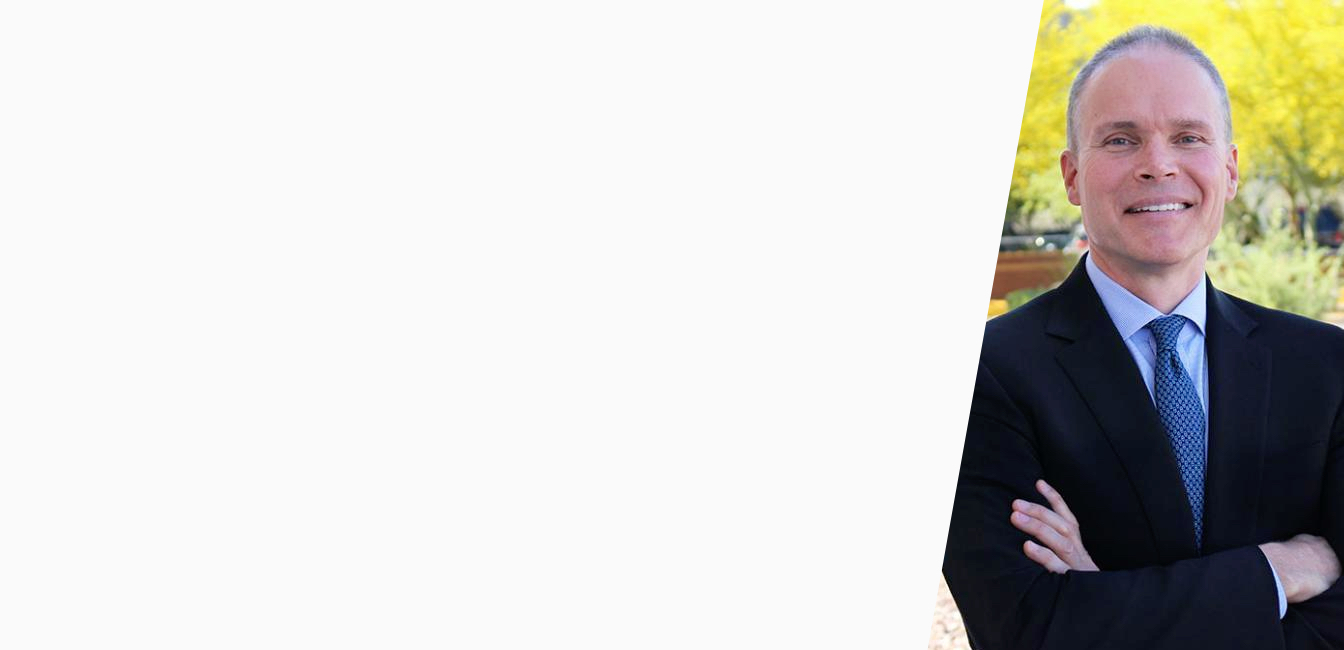
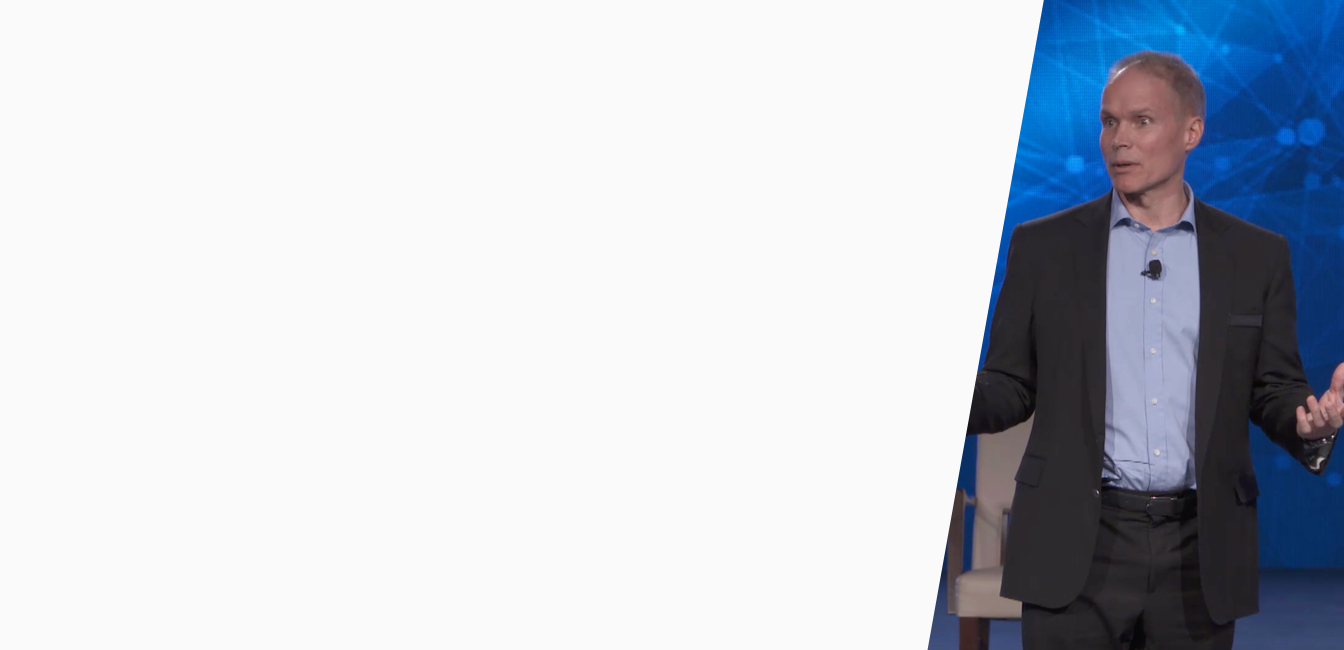
about us done!

Changed region(s): [[0.6875, 0.0, 1.0, 1.0]]

diff --git a/src/views/about/history/history.html b/src/views/about/history/history.html
@@ -1,64 +1,72 @@
 <div>
 
-  <div class="hero">
-    <div class="hero-body has-text-centered">
-      <h3 class="title is-3">About Us</h3>
-    </div>
-  </div>
-
-  <div class="hero is-small">
+  <section class="hero is-medium section-about-about m-y-2">
     <div class="hero-body">
-      <div class="columns is-centered">
-        <div class="column is-7">
-          Execute to Win (ETW) is a consulting company that helps organizations improve alignment to get better results; alignment to intentional leadership, strategy, execution and culture. Only when organizations are aligned can they have the better conversations
-          leading to better actions to yield better results. Most organizations find alignment to be both their biggest challenge and opportunity. What would be different if your organization was 20, 30, 40, 50% more aligned? Our customers find that small
-          improvements in alignment yield large improvements in employee morale, engagement and bottom-line results.
+      <div class="columns">
+        <div class="column is-6 p-l-3">
+          <div class="m-b-2 m-t-3">
+            <h5 class="has-text-grey">EXECUTE TO WIN</h5>
+            <h1 class="title is-1">Improving Alignment to get Better Results</h1>
+          </div>
+          <p class="m-b-2 is-size-5">Execute to Win (ETW) is a consulting company that helps organizations improve alignment to get better results; alignment to intentional leadership, strategy, execution and culture. Only when organizations are aligned can they have the better conversations
+            leading to better actions to yield better results. Most organizations find alignment to be both their biggest challenge and opportunity. What would be different if your organization was 20, 30, 40, 50% more aligned? Our customers find that small
+            improvements in alignment yield large improvements in employee morale, engagement and bottom-line results.</p>
         </div>
       </div>
     </div>
-  </div>
+  </section>
 
-  <div class="hero">
-    <div class="hero-body has-text-centered">
-      <h3 class="title is-3">How do we do this?</h3>
-    </div>
-  </div>
-
-  <div class="hero is-small">
+  <section class="hero section-about-how-we-do-this m-y-2">
     <div class="hero-body">
-      <div class="columns is-variable is-8">
-        <div class="column">
-          <p>Most senior leadership teams within organizations spend a disproportionate amount of time on strategy than they do on how they will execute and the environment required to sustain an energized team. ETW helps organizations iterate faster and
+      <div class="columns">
+        <div class="column is-6 is-offset-5">
+          <div class="m-b-2 m-t-3">
+            <h5 class="has-text-grey">OUR APPROACH</h5>
+            <h1 class="title is-1">How do we do this?</h1>
+          </div>
+          <p class="m-b-2 is-size-5">Most senior leadership teams within organizations spend a disproportionate amount of time on strategy than they do on how they will execute and the environment required to sustain an energized team. ETW helps organizations iterate faster and
             smarter than their competitors and keeps all employees on the leading edge of where they need to create more value next in order to successfully grow. The key is ETW’s approach to a Management Operating System. We get the senior leadership
             team fully aligned around their strategy then connect all employees through a living, breathing execution plan.</p>
-        </div>
-        <div class="column">
-          <p>With a very intentional and practical approach to leadership, strategy, execution and culture combined with the technology required to easily sustain and scale, our customers typically see significantly improved results in under 12 months. Our
+          <p class="m-b-2 is-size-5">With a very intentional and practical approach to leadership, strategy, execution and culture combined with the technology required to easily sustain and scale, our customers typically see significantly improved results in under 12 months. Our
             team makes it easy on you by doing all the work required to build out your Management Operating System and integrating its use into your organization. From the first second of our engagement you spend all of your time on a productive alignment
             conversation.</p>
         </div>
       </div>
     </div>
-  </div>
+  </section>
 
-  <div class="section">
-    <div class="columns is-variable is-8">
-      <div class="column">
-        <h3 class="title is-3">What makes ETW different?</h3>
-        <p class="m-b-1">The reason ETW is different than the rest of the world is in its holistic approach. We combine a practical application approach to leadership, strategy, execution, culture and technology with a Management Operating System process that sustains
-          improvements over the long run.</p>
-        <p>Other products and systems approach this challenge one-dimensionally. They also believe that if you implement their one-dimensional solution all things will improve and those improvements will sustain themselves over the long run. It’s not uncommon
-          to see some improvement with this approach for a short time. But because the solution wasn’t complete, over 90% of the time the improvements plateau or even reverse. ETW is the only sustainable long-term solution.</p>
-      </div>
-      <div class="column">
-        <h3 class="title is-3">When is the best time to implement ETW?</h3>
-        <p>Any time is the right time to get your organization more aligned. That said, the more chaotic and busy with new projects you are, the better the timing. Staying on top of all the complexities of making an organization successful without a centralized
-          Management Operating System takes extreme effort. ETW gets you aligned fast and with less than half the effort required going forward to keep it that way. This allows you to be much more proactive and less reactive in growing your organization.
-          And because the ETW team does all the work for you (no learning how to set up a new system) until the system is fully built out, you spend all of your time proactively improving your organization’s alignment and results. ETW is cloud-based,
-          can be deployed in less than 24 hours and requires zero IT support on your end. ETW is very secure and all you need is a modern browser.</p>
+  <section class="hero section-about-different is-light m-y-2">
+    <div class="hero-body">
+      <div class="columns">
+        <div class="column is-6 p-l-3">
+          <div class="m-b-2 m-t-3">
+            <h5 class="has-text-grey">PRACTICAL APPLICATION</h5>
+            <h1 class="title is-1">What makes ETW different?</h1>
+          </div>
+          <p class="m-b-2 is-size-5">The reason ETW is different than the rest of the world is in its holistic approach. We combine a practical application approach to leadership, strategy, execution, culture and technology with a Management Operating System process that sustains
+            improvements over the long run.</p>
+          <p class="m-b-2 is-size-5">Other products and systems approach this challenge one-dimensionally. They also believe that if you implement their one-dimensional solution all things will improve and those improvements will sustain themselves over the long run. It’s not uncommon
+            to see some improvement with this approach for a short time. But because the solution wasn’t complete, over 90% of the time the improvements plateau or even reverse. ETW is the only sustainable long-term solution.</p>
+        </div>
       </div>
     </div>
-  </div>
+  </section>
 
+  <section class="hero section-about-best-time-to-implement m-y-2">
+    <div class="hero-body">
+      <div class="columns">
+        <div class="column is-6 is-offset-5">
+          <div class="m-b-2 m-t-3">
+            <h5 class="has-text-grey">MANAGEMENT OPERATING SYSTEM</h5>
+            <h1 class="title is-1">When is the best time to implement ETW?</h1>
+          </div>
+          <p class="m-b-2 is-size-5">Any time is the right time to get your organization more aligned. That said, the more chaotic and busy with new projects you are, the better the timing. Staying on top of all the complexities of making an organization successful without a centralized
+            Management Operating System takes extreme effort. ETW gets you aligned fast and with less than half the effort required going forward to keep it that way. This allows you to be much more proactive and less reactive in growing your organization.
+            And because the ETW team does all the work for you (no learning how to set up a new system) until the system is fully built out, you spend all of your time proactively improving your organization’s alignment and results. ETW is cloud-based,
+            can be deployed in less than 24 hours and requires zero IT support on your end. ETW is very secure and all you need is a modern browser.</p>
+        </div>
+      </div>
+    </div>
+  </section>
 
 </div>

diff --git a/src/views/about/leadership/leadership.js b/src/views/about/leadership/leadership.js
@@ -18,37 +18,43 @@ export default {
           image: './static/headshots/lb-1.jpg',
           name: 'Lee Benson',
           title: 'CEO',
-          info: 'Lee Benson is the founder and CEO of Execute to Win, a Phoenix-based company that helps organizations drive alignment to winning behaviors and performance through business management systems. Benson specializes in helping CEOs grow their organizations faster and more profitably by holding all employees accountable to behaving like their top-performing employees, creating an intentional culture and cascading strategic performance requirements to every corner of the organization.'
+          info: 'Lee Benson is the founder and CEO of Execute to Win, a Phoenix-based company that helps organizations drive alignment to winning behaviors and performance through business management systems. Benson specializes in helping CEOs grow their organizations faster and more profitably by holding all employees accountable to behaving like their top-performing employees, creating an intentional culture and cascading strategic performance requirements to every corner of the organization.',
+          linkedin: 'https://www.linkedin.com/in/lee-benson-5b6101/'
         },
         {
           image: './static/headshots/ap-1.jpg',
           name: 'Ali Parnian',
           title: 'President',
-          info: 'Ali’s role is to ensure that every ETW enabled customer, from startup to enterprise, achieves extraordinary results. His team consistently accomplishes this by utilizing the best-in-class technology, effective change management practices, and proven management methodologies during the implementation process. Ali leverages his 20+ years of successful leadership experience in manufacturing, retail and professional services to grow ETW to change the way the world does business.'
+          info: 'Ali’s role is to ensure that every ETW enabled customer, from startup to enterprise, achieves extraordinary results. His team consistently accomplishes this by utilizing the best-in-class technology, effective change management practices, and proven management methodologies during the implementation process. Ali leverages his 20+ years of successful leadership experience in manufacturing, retail and professional services to grow ETW to change the way the world does business.',
+          linkedin: 'https://www.linkedin.com/in/ali-p-5557863/'
         },
         {
           image: './static/headshots/da-1.jpg',
           name: 'David Atrostic',
-          title: 'Chief Operating Officer',
-          info: 'David Atrostic serves as Senior Advisor to Execute to Win. In his role, David provides guidance in a multitude of initiatives to develop strategic partnerships, drive out inefficiencies and build a foundation to support massive growth. David has more than 20 years of technology architecture, management and consulting experience across a variety of industries.'
+          title: 'COO',
+          info: 'David Atrostic serves as Chief Opperations Officer at Execute to Win. In his role, David provides guidance in a multitude of initiatives to develop strategic partnerships, drive out inefficiencies and build a foundation to support massive growth. David has more than 20 years of technology architecture, management and consulting experience across a variety of industries.',
+          linkedin: 'https://www.linkedin.com/in/david-m-atrostic-3a42005/'
         },
         {
           image: './static/headshots/cm-1.jpg',
           name: 'Chris Moudy',
           title: 'VP Software Development',
-          info: "As vice president of software development, Chris provides technical direction across the company in areas of architectures, software, and information security. In working with ETW business stakeholders and customers, Chris helps define the vision for ETW's technology offerings and shapes ETW's platform and api strategy accordingly to meet the growing demands of technology. Chris holds a B.S. in Computer Science from the University of Iowa and an M.S. in Software Engineering from Southern Methodist University."
+          info: "As vice president of software development, Chris provides technical direction across the company in areas of architectures, software, and information security. In working with ETW business stakeholders and customers, Chris helps define the vision for ETW's technology offerings and shapes ETW's platform and api strategy accordingly to meet the growing demands of technology. Chris holds a B.S. in Computer Science from the University of Iowa and an M.S. in Software Engineering from Southern Methodist University.",
+          linkedin: 'https://www.linkedin.com/in/christopher-moudy-750118/'
         },
         {
           image: './static/headshots/br-1.jpg',
           name: 'Blake Rayhons',
           title: 'Director of Client Services',
-          info: 'Blake is responsible for the development and delivery of services ensuring that clients successfully implement and utilize ETW to get at least a 10x return on their investment. He works with clients to transform and improve how they do business by drawing on his successful track record of working with senior leadership in a broad range of roles and industries. With an intense focus on delivering a world-class customer support experience to every client, Blake has led numerous ETW client implementations resulting in sustained double-digit growth in profitability, as well as organizational turnarounds in both public and private companies.'
+          info: 'Blake is responsible for the development and delivery of services ensuring that clients successfully implement and utilize ETW to get at least a 10x return on their investment. He works with clients to transform and improve how they do business by drawing on his successful track record of working with senior leadership in a broad range of roles and industries. With an intense focus on delivering a world-class customer support experience to every client, Blake has led numerous ETW client implementations resulting in sustained double-digit growth in profitability, as well as organizational turnarounds in both public and private companies.',
+          linkedin: 'https://www.linkedin.com/in/blakerayhons/'
         },
         {
           image: './static/headshots/jw-1.jpg',
           name: 'Jack Welch',
           title: 'ETW Partner',
-          info: 'Jack Welch is the former GE Chairman and CEO and the author of Winning, a #1 Wall Street Journal and international bestseller. In 2001, he wrote his #1 New York Times and also international best-selling autobiography, Jack: Straight from the Gut. Since 2005, Jack and Suzy Welch have written business columns for several publications, including Business Weekmagazine, Thomson Reuters digital platforms, Fortune magazine, and the New York Times syndicate. In 2009, they wrote a column, The Welch Way, for Business Weekmagazine, which was also published by the New York Times syndicate.'
+          info: 'Jack Welch is the former GE Chairman and CEO and the author of Winning, a #1 Wall Street Journal and international bestseller. In 2001, he wrote his #1 New York Times and also international best-selling autobiography, Jack: Straight from the Gut. Since 2005, Jack and Suzy Welch have written business columns for several publications, including Business Weekmagazine, Thomson Reuters digital platforms, Fortune magazine, and the New York Times syndicate. In 2009, they wrote a column, The Welch Way, for Business Weekmagazine, which was also published by the New York Times syndicate.',
+          linkedin: 'https://www.linkedin.com/in/johnfwelch/'
         }
       ]
     }

diff --git a/src/views/about/intro/intro.html b/src/views/about/intro/intro.html
@@ -4,6 +4,24 @@
       <div class="columns is-centered">
         <div class="column is-6 has-text-centered">
           <h1 class="title is-1 has-text-white">We help organizations improve alignment to get better results</h1>
+          <h3 class="subtitle has-text-white m-t-2">Connect with us on</h3>
+          <div class="columns is-centered">
+            <div class="column is-narrow has-text-white">
+              <a href="https://www.linkedin.com/company/2552712/" class="image is-48x48" target="_blank">
+                <img src="../../../../static/icon-linkedin.svg" alt="LinkedIn">
+              </a>
+            </div>
+            <div class="column is-narrow has-text-white">
+              <a href="https://www.facebook.com/ETW.executetowin/" class="image is-48x48" target="_blank">
+                <img src="../../../../static/icon-facebook.svg" alt="Facebook">
+              </a>
+            </div>
+            <div class="column is-narrow has-text-white">
+              <a href="https://twitter.com/executetowin" class="image is-48x48" target="_blank">
+                <img src="../../../../static/icon-twitter.svg" alt="Twiiter">
+              </a>
+            </div>
+          </div>
         </div>
       </div>
     </div>

diff --git a/src/views/about/leadership/leadership.html b/src/views/about/leadership/leadership.html
@@ -8,7 +8,6 @@
             <h1 class="title">
               Senior Leadership
             </h1>
-            <p class="subtitle">Turning Strategy and Culture into Tangible Results</p>
           </div>
         </div>
       </div>
@@ -22,8 +21,17 @@
         <figure class="image m-b-2">
           <img v-bind:src="leader.image" v-bind:alt="leader.name">
         </figure>
-        <h1 class="title is-4">{{ leader.name }}</h1>
-        <h2 class="subtitle is-6">{{ leader.title }}</h2>
+        <div class="columns">
+          <div class="column">
+            <h1 class="title is-4">{{ leader.name }}</h1>
+            <h2 class="subtitle is-6">{{ leader.title }}</h2>
+          </div>
+          <div class="column is-narrow">
+            <a v-bind:href="leader.linkedin" class="image is-32x32" target="_blank">
+              <img src="../../../../static/linkedin_icon.svg" alt="View LinkedIn Profile">
+            </a>
+          </div>
+        </div>
         <p>{{ leader.info }}</p>
       </div>
     </div>

diff --git a/src/assets/styles/view-about.scss b/src/assets/styles/view-about.scss
@@ -33,3 +33,33 @@
     text-decoration-color: $warning;
   }
 }
+
+@include tablet {
+  .section-about-about {
+    background-image: url(../../../static/backgrounds/bg-office-one.jpg);
+    background-repeat: no-repeat;
+    background-position: right center;
+    background-size: cover;
+  }
+
+  .section-about-how-we-do-this {
+    background-image: url(../../../static/backgrounds/about-how-we-do-this.jpg);
+    background-repeat: no-repeat;
+    background-position: left center;
+    background-size: cover;
+  }
+
+  .section-about-different {
+    background-image: url(../../../static/backgrounds/about-etw-2.jpg);
+    background-repeat: no-repeat;
+    background-position: right center;
+    background-size: cover;
+  }
+
+  .section-about-best-time-to-implement {
+    background-image: url(../../../static/backgrounds/section-about-best-time-to-implement.jpg);
+    background-repeat: no-repeat;
+    background-position: left center;
+    background-size: cover;
+  }
+}
